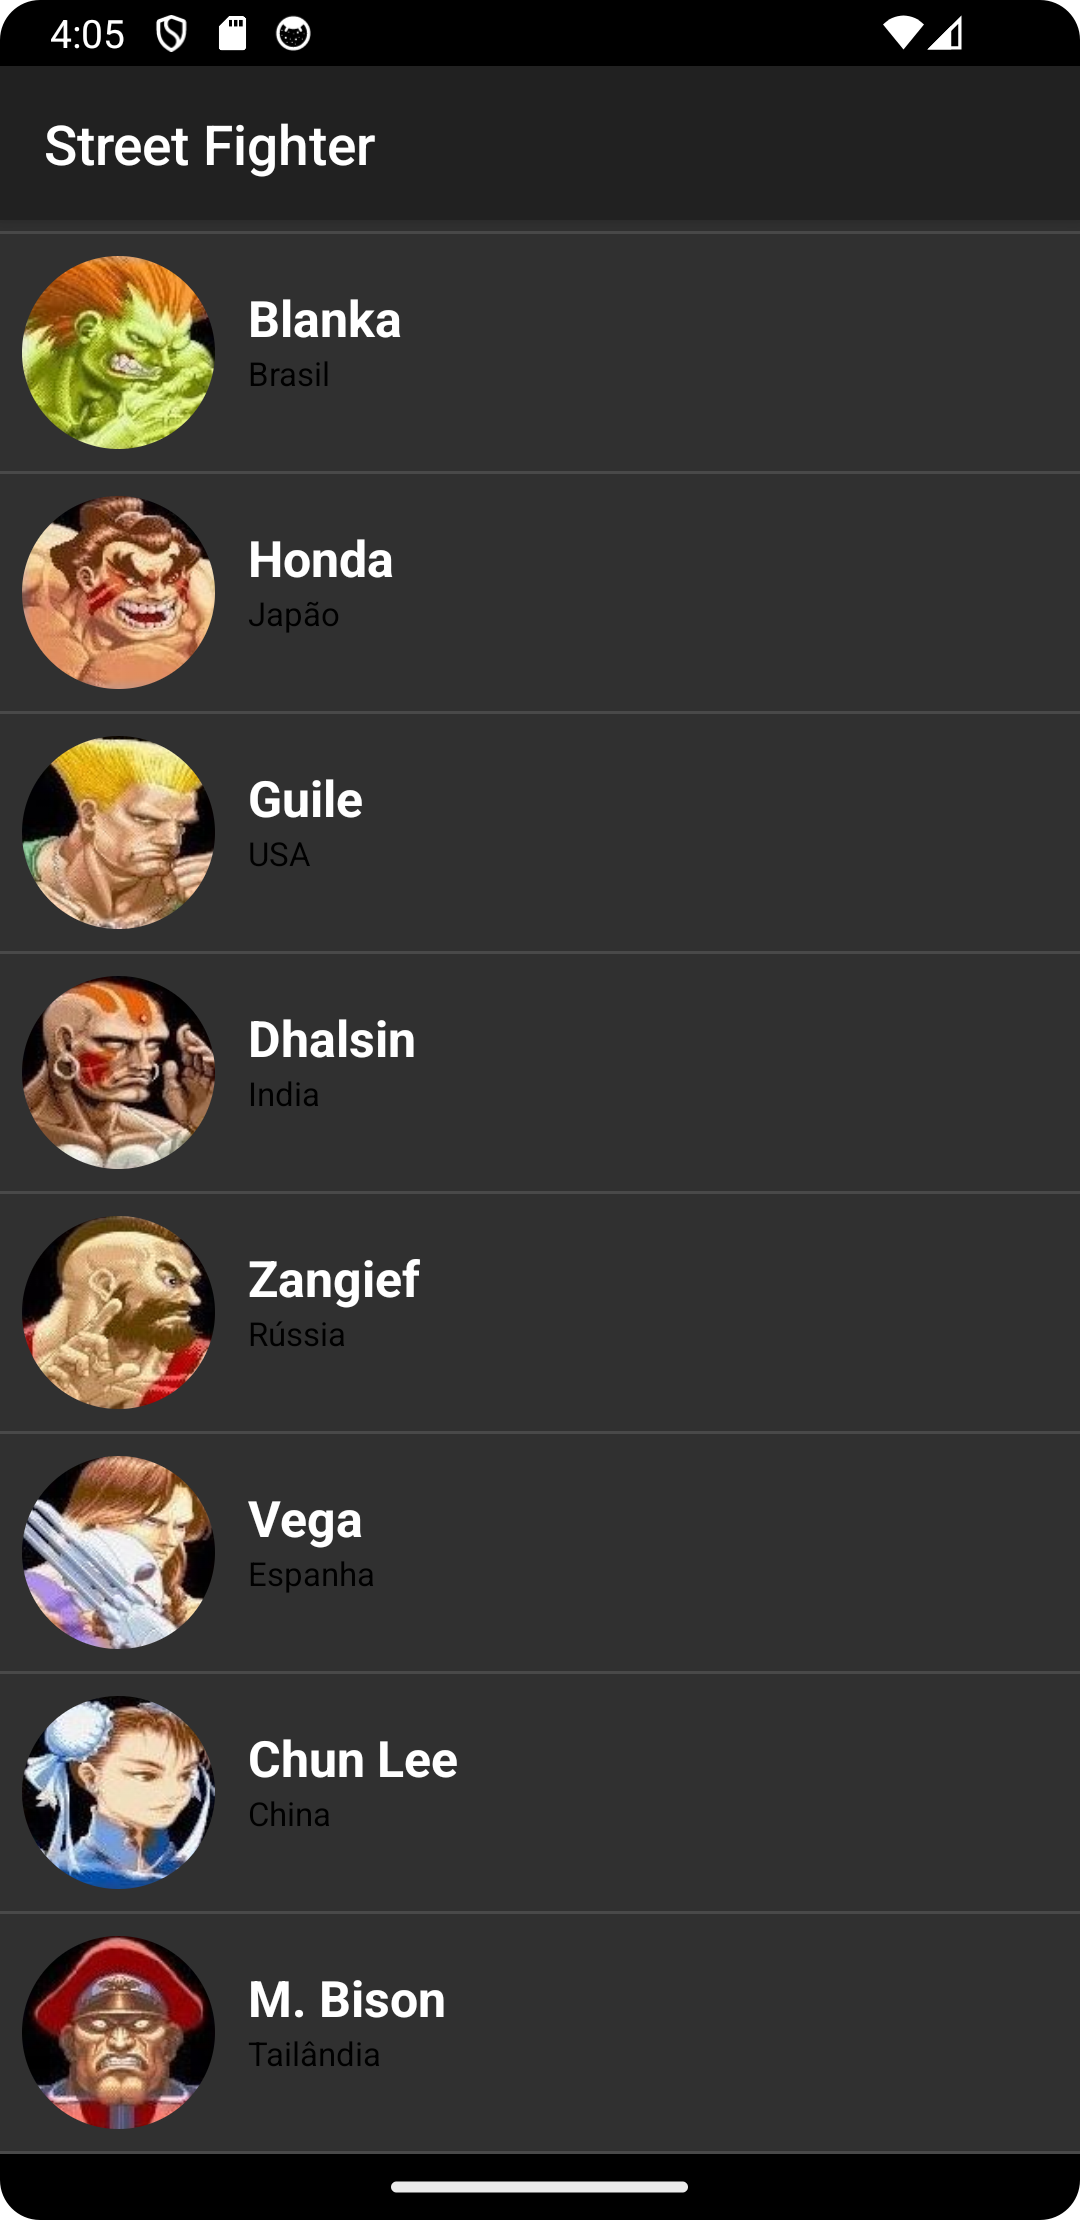
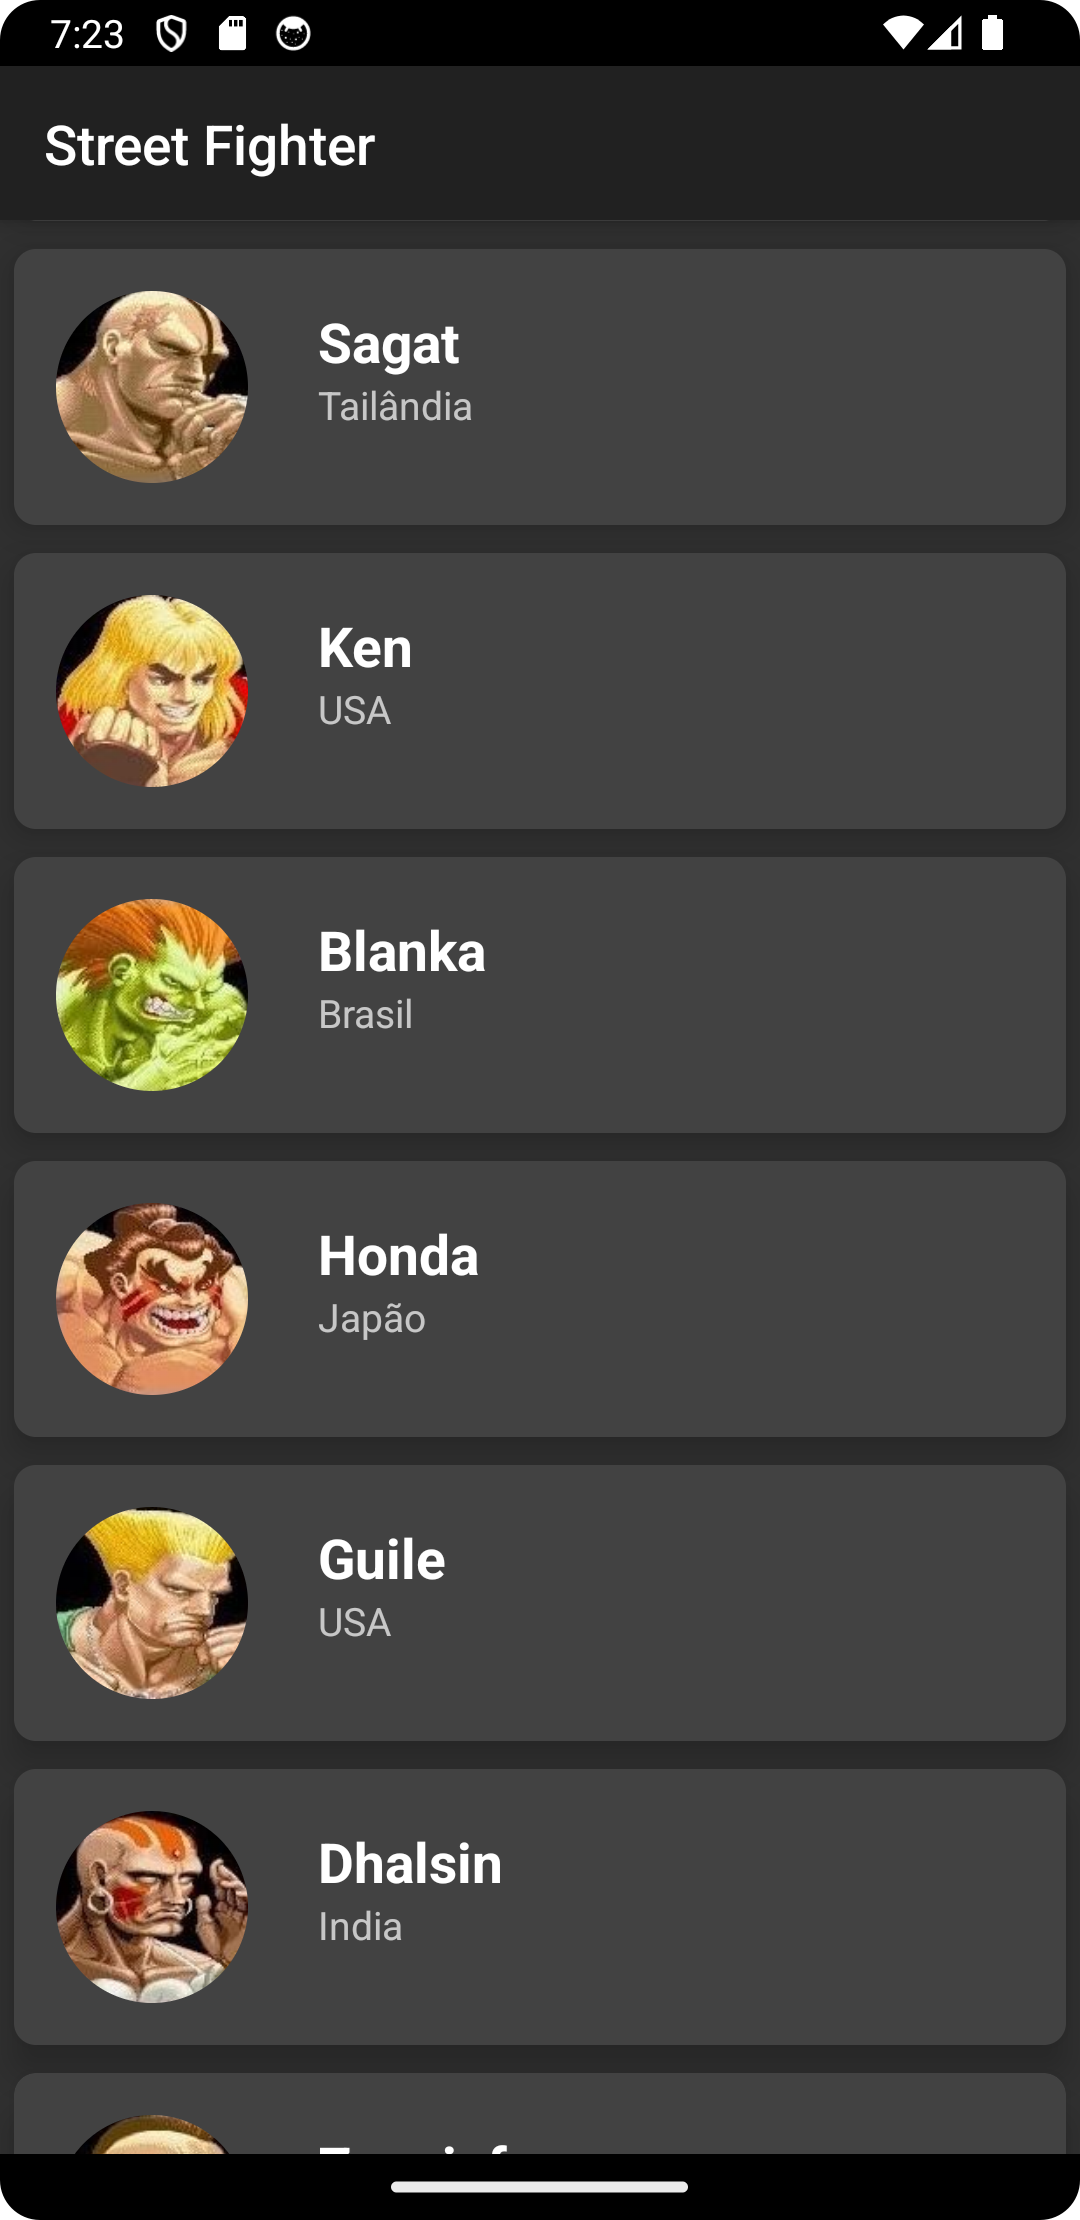
CardViews

Changed region(s): [[0.0, 0.0932, 0.4583, 0.9946], [0.0306, 0.0, 0.1222, 0.0311], [0.8861, 0.0, 0.9472, 0.0311]]

diff --git a/app/src/main/java/br/rafaelhorochovec/app_streetfighter_android/MainActivity.java b/app/src/main/java/br/rafaelhorochovec/app_streetfighter_android/MainActivity.java
@@ -60,7 +60,7 @@ public class MainActivity extends AppCompatActivity {
 
         RecyclerView.LayoutManager layoutManager = new LinearLayoutManager(MainActivity.this);
 
-        recyclerView.addItemDecoration(new DividerItemDecoration(recyclerView.getContext(), DividerItemDecoration.VERTICAL));
+        // recyclerView.addItemDecoration(new DividerItemDecoration(recyclerView.getContext(), DividerItemDecoration.VERTICAL));
         recyclerView.setLayoutManager(layoutManager);
         recyclerView.setAdapter(adapter);
     }
